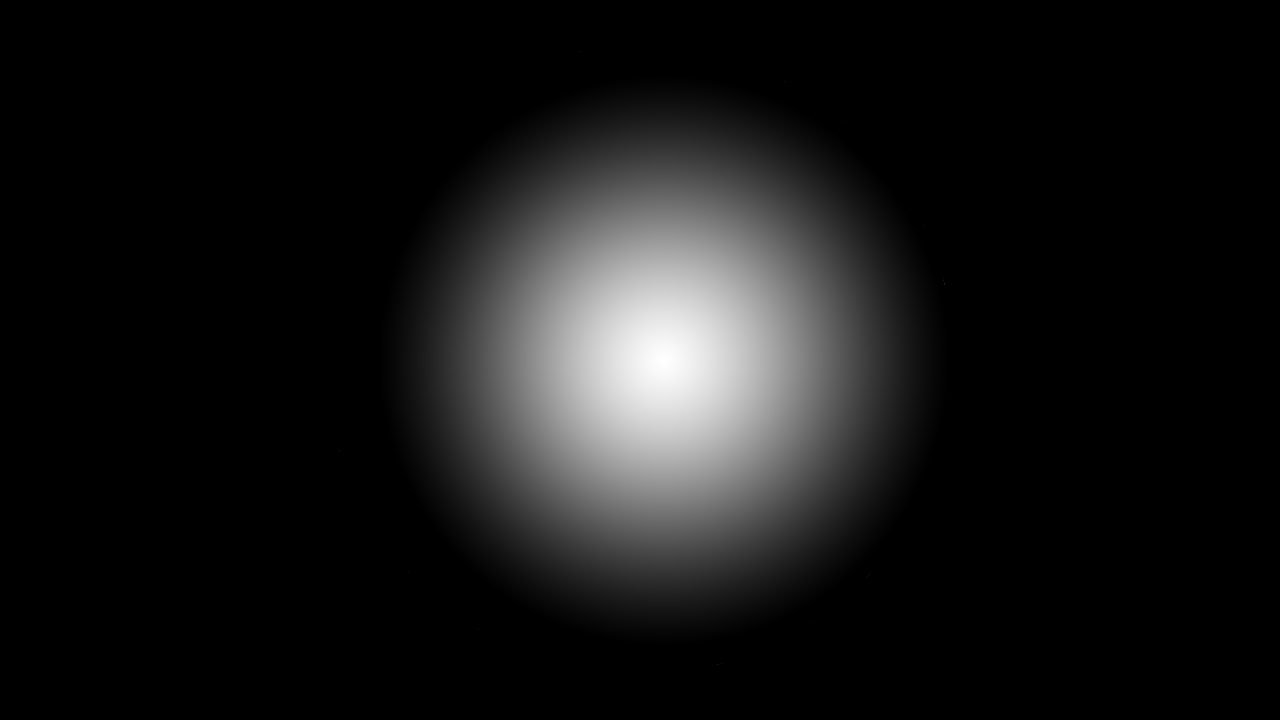
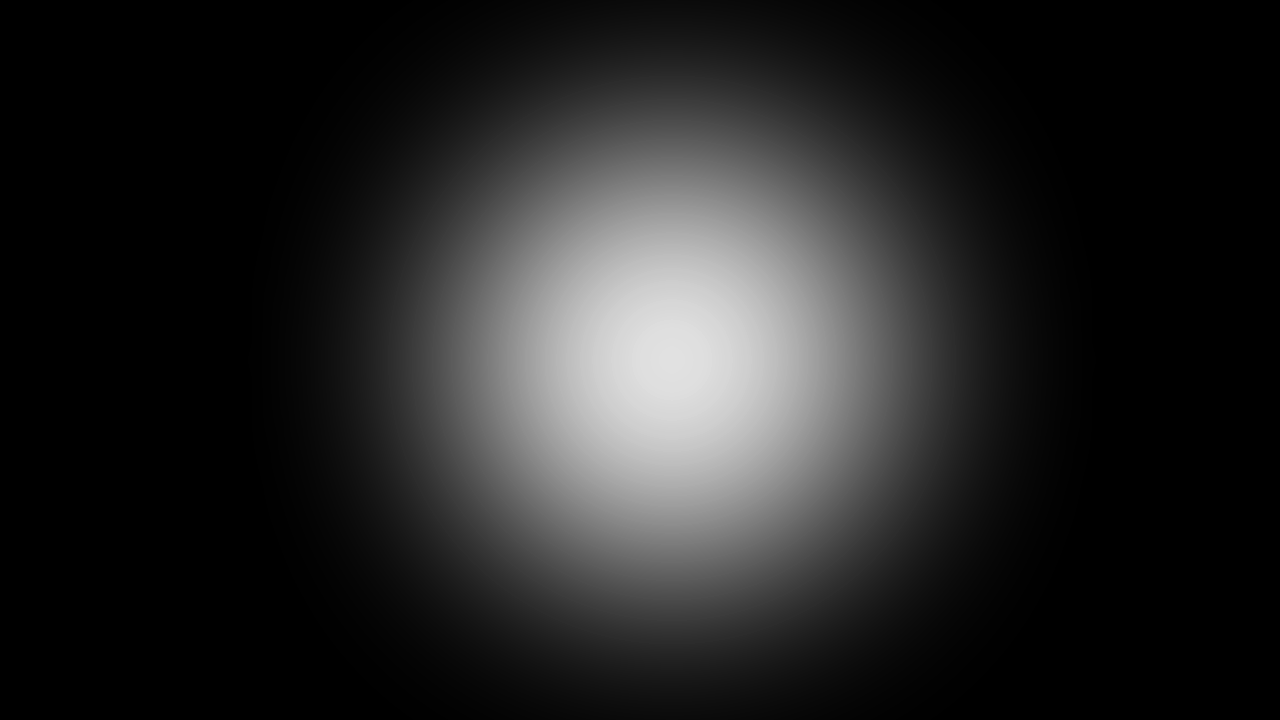
added fog in background

Changed region(s): [[0.25, 0.0611, 0.7812, 0.9472], [0.5, 0.4889, 0.5312, 0.5194]]

diff --git a/src/drawing/draw_walls.c b/src/drawing/draw_walls.c
@@ -6,7 +6,7 @@
 /*   By: tomecker <tomecker@student.42.fr>          +#+  +:+       +#+        */
 /*                                                +#+#+#+#+#+   +#+           */
 /*   Created: 2024/08/17 01:26:38 by dolifero          #+#    #+#             */
-/*   Updated: 2024/08/27 19:04:18 by tomecker         ###   ########.fr       */
+/*   Updated: 2024/08/27 19:55:22 by tomecker         ###   ########.fr       */
 /*                                                                            */
 /* ************************************************************************** */
 
@@ -73,14 +73,14 @@ int is_pixel_transp(mlx_image_t* image, int x, int y)
     return (0);
 }
 
-int	add_fog(double distance, int color, int fog)
+int	add_fog(int color, int fog, double fog_factor, double distance)
 {
 	t_color after;
-	double fog_factor;
 	
 	if (fog == 2)
 		return (color);
-	fog_factor = (distance - 1) / (3.5 - 1);
+	if (fog_factor == INT_MAX)
+		fog_factor = (distance - 1) / (3.5 - 1);
     if (fog_factor < 0) fog_factor = 0;
     if (fog_factor > 1) fog_factor = 1;
 
@@ -130,7 +130,7 @@ void draw_sprites(t_data *data, int x, int hit_c)
 			{
 				int color = get_texture_color(data->sprites[data->hit[x][hit_c].sprite_t].tex, texX, data->texture->texY);
 				if (color != 0x00000000)
-					my_put_pixel(data->cubed->walls, x, startY, add_fog(transformY, color, data->weapon));
+					my_put_pixel(data->cubed->walls, x, startY, add_fog(color, data->weapon, INT_MAX, transformY));
 			}
 		}
 		startY++;
@@ -165,7 +165,7 @@ void	draw_walls(t_data *data, int x, int hit_c)
 		{
 			color = get_texture_color(data->hit[x][hit_c].tex, data->hit[x][hit_c].texX, data->texture->texY);
 			if (color != 0x00000000)
-				my_put_pixel(data->cubed->walls, x, startY, add_fog(data->hit[x][hit_c].distance, color, data->weapon));	
+				my_put_pixel(data->cubed->walls, x, startY, add_fog(color, data->weapon, INT_MAX, data->hit[x][hit_c].distance));	
 		}
 		startY++;
 	}

diff --git a/src/drawing/draw_bg.c b/src/drawing/draw_bg.c
@@ -6,47 +6,33 @@
 /*   By: tomecker <tomecker@student.42.fr>          +#+  +:+       +#+        */
 /*                                                +#+#+#+#+#+   +#+           */
 /*   Created: 2024/08/16 01:06:15 by dolifero          #+#    #+#             */
-/*   Updated: 2024/08/18 14:50:52 by tomecker         ###   ########.fr       */
+/*   Updated: 2024/08/27 19:58:18 by tomecker         ###   ########.fr       */
 /*                                                                            */
 /* ************************************************************************** */
 
 #include "../../include/cubed.h"
 
-void	ceiling_floor(t_cubed *cubed, t_input *input)
+void	draw_bg(t_data *data, t_input *input)
 {
 	int	i;
 	int	j;
+	double fog_factor;
 
-	i = -1;
-	while (++i < HEIGHT / 2)
+	i = 0;
+	while (i < HEIGHT / 2)
 	{
 		j = -1;
+		fog_factor = 1.2 - ((double)(HEIGHT / 2 - i) / (HEIGHT / 2));
 		while (++j < WIDTH)
-			mlx_put_pixel((*cubed).bg, j, i, input->ceiling);
+			my_put_pixel(data->cubed->bg, j, i, add_fog(input->ceiling, data->weapon, fog_factor, 0));
+		i++;
 	}
-	i--;
-	while (++i < HEIGHT)
+	while (i < HEIGHT)
 	{
 		j = -1;
+		fog_factor = 1.2 - ((double)(i - HEIGHT / 2) / (HEIGHT / 2));
 		while (++j < WIDTH)
-			mlx_put_pixel((*cubed).bg, j, i, input->floor);
-	}
-}
-
-void	draw_bg(mlx_image_t *img, int color)
-{
-	int x;
-	int y;
-	
-	y = 0;
-	while (y < HEIGHT)
-	{
-		x = 0;
-		while(x < WIDTH)
-		{
-			my_put_pixel(img, x, y, color);
-			x++;
-		}
-		y++;
+			my_put_pixel(data->cubed->bg, j, i, add_fog(input->ceiling, data->weapon, fog_factor, 0));
+		i++;
 	}
 }

diff --git a/src/controls/controls.c b/src/controls/controls.c
@@ -3,10 +3,10 @@
 /*                                                        :::      ::::::::   */
 /*   controls.c                                         :+:      :+:    :+:   */
 /*                                                    +:+ +:+         +:+     */
-/*   By: dolifero <dolifero@student.42.fr>          +#+  +:+       +#+        */
+/*   By: tomecker <tomecker@student.42.fr>          +#+  +:+       +#+        */
 /*                                                +#+#+#+#+#+   +#+           */
 /*   Created: 2024/08/16 01:02:11 by dolifero          #+#    #+#             */
-/*   Updated: 2024/08/21 14:57:35 by dolifero         ###   ########.fr       */
+/*   Updated: 2024/08/27 19:53:55 by tomecker         ###   ########.fr       */
 /*                                                                            */
 /* ************************************************************************** */
 
@@ -121,6 +121,8 @@ void	ft_window_hook(struct mlx_key_data key, void *param)
 	{
 		data->weapon = 1;
 		ft_dark_img(data->cubed->light);
+		clear_image(data->cubed->bg);
+		draw_bg(data, data->input);
 		mlx_delete_image(data->cubed->mlx, data->cubed->hand);
 		draw_hand(data);
 	}
@@ -128,6 +130,8 @@ void	ft_window_hook(struct mlx_key_data key, void *param)
 	{
 		data->weapon = 2;
 		clear_image(data->cubed->light);
+		clear_image(data->cubed->bg);
+		draw_bg(data, data->input);
 		mlx_delete_image(data->cubed->mlx, data->cubed->hand);
 		draw_hand(data);
 	}

diff --git a/include/functions.h b/include/functions.h
@@ -6,7 +6,7 @@
 /*   By: tomecker <tomecker@student.42.fr>          +#+  +:+       +#+        */
 /*                                                +#+#+#+#+#+   +#+           */
 /*   Created: 2024/08/10 22:21:57 by dolifero          #+#    #+#             */
-/*   Updated: 2024/08/26 21:31:11 by tomecker         ###   ########.fr       */
+/*   Updated: 2024/08/27 19:51:01 by tomecker         ###   ########.fr       */
 /*                                                                            */
 /* ************************************************************************** */
 
@@ -36,8 +36,8 @@ int				init_bg_img(t_cubed *cubed, t_input *input, t_data *data);
 unsigned int	parse_color(char *colors);
 
 //DRAWING
+int				add_fog(int color, int fog, double fog_factor, double distance);
 void			my_put_pixel(mlx_image_t *img, int x, int y, int color);
-void			ceiling_floor(t_cubed *cubed, t_input *input);
 void			draw(t_data *data);
 void			draw_overlay(t_data *data);
 void			draw_hand(t_data *data);
@@ -45,7 +45,7 @@ void			ft_dark_img(mlx_image_t *img);
 void			setPlane(t_data *data);
 int				get_texture_color(mlx_texture_t *texture, int x, int y);
 void			draw_info(t_data *data, char flag);
-void			draw_bg(mlx_image_t *img, int color);
+void			draw_bg(t_data *data, t_input *input);
 void			draw_overlay_part(mlx_image_t *img, mlx_texture_t *texture, int dst_x, int dst_y);
 void			redraw(void *param);
 

diff --git a/src/parsing/init_images.c b/src/parsing/init_images.c
@@ -6,7 +6,7 @@
 /*   By: tomecker <tomecker@student.42.fr>          +#+  +:+       +#+        */
 /*                                                +#+#+#+#+#+   +#+           */
 /*   Created: 2024/08/17 17:22:07 by dolifero          #+#    #+#             */
-/*   Updated: 2024/08/26 21:31:44 by tomecker         ###   ########.fr       */
+/*   Updated: 2024/08/27 19:52:06 by tomecker         ###   ########.fr       */
 /*                                                                            */
 /* ************************************************************************** */
 
@@ -86,7 +86,7 @@ int	init_image(t_input *input, t_cubed *cubed, t_data *data)
 	ft_hook(data);
 	if (!init_bg_img(cubed, input, data))
 		return (0);
-	ceiling_floor(cubed, input);
+	draw_bg(data, input);
 	if (!init_walls_img(cubed, input, data))
 		return (0);
 	draw(data);
